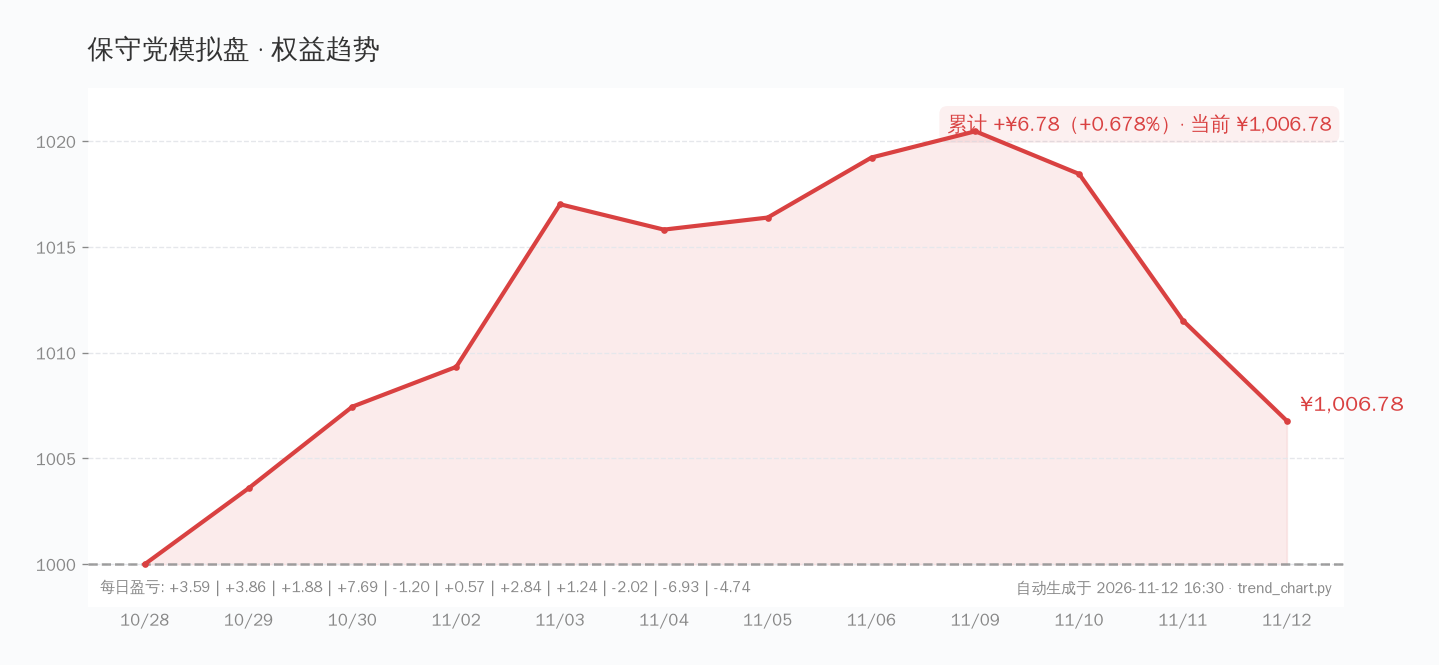
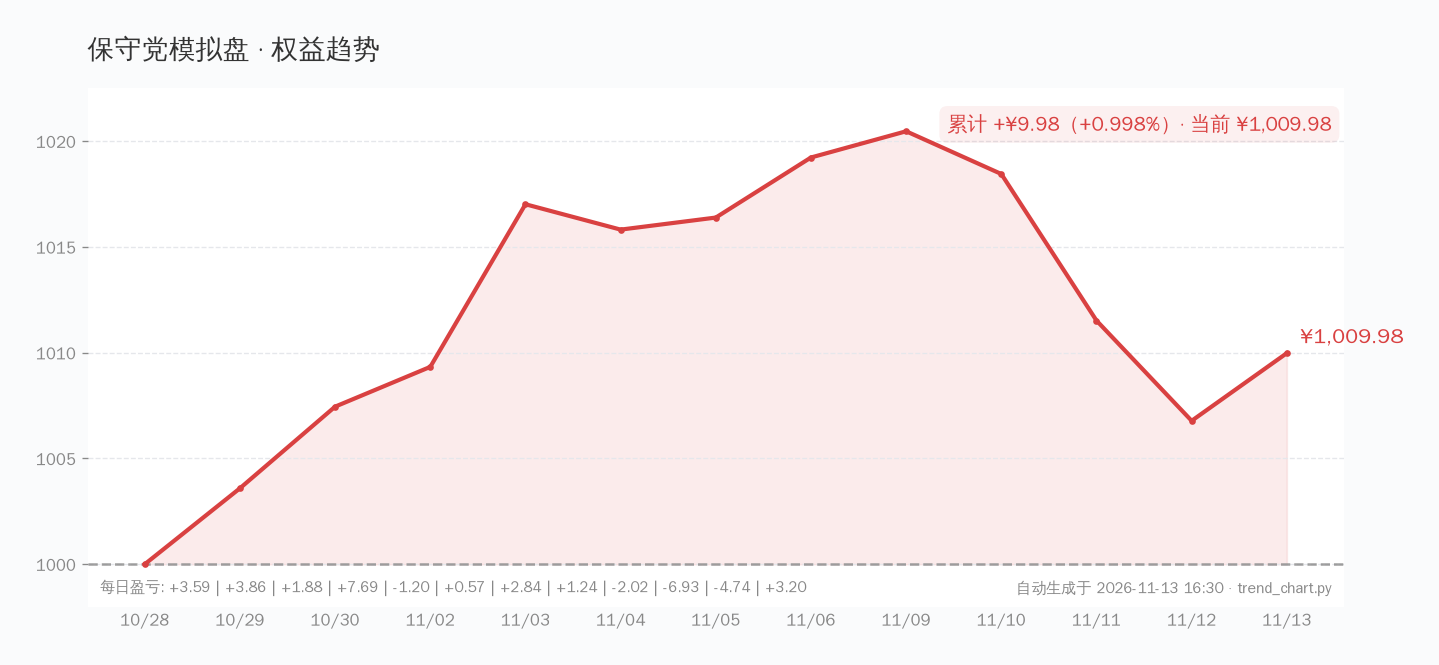
sim: trend chart update 2026-11-13 (equity ¥1,009.98)

diff --git a/sim/journal.md b/sim/journal.md
@@ -111,3 +111,11 @@
 - 现金 ¥273.88
 - 📝 自动收盘估值（看板 cron）
 
+## 2026-11-13 收盘
+
+- 总权益 **¥1009.98**（当日 +0.32% / 累计 +0.998%）
+- 红利低波100ETF景顺 1.459 (+0.69%)
+- 黄金ETF华安 7.954 (-1.62%)
+- 现金 ¥273.89
+- 📝 自动收盘估值（看板 cron）
+
